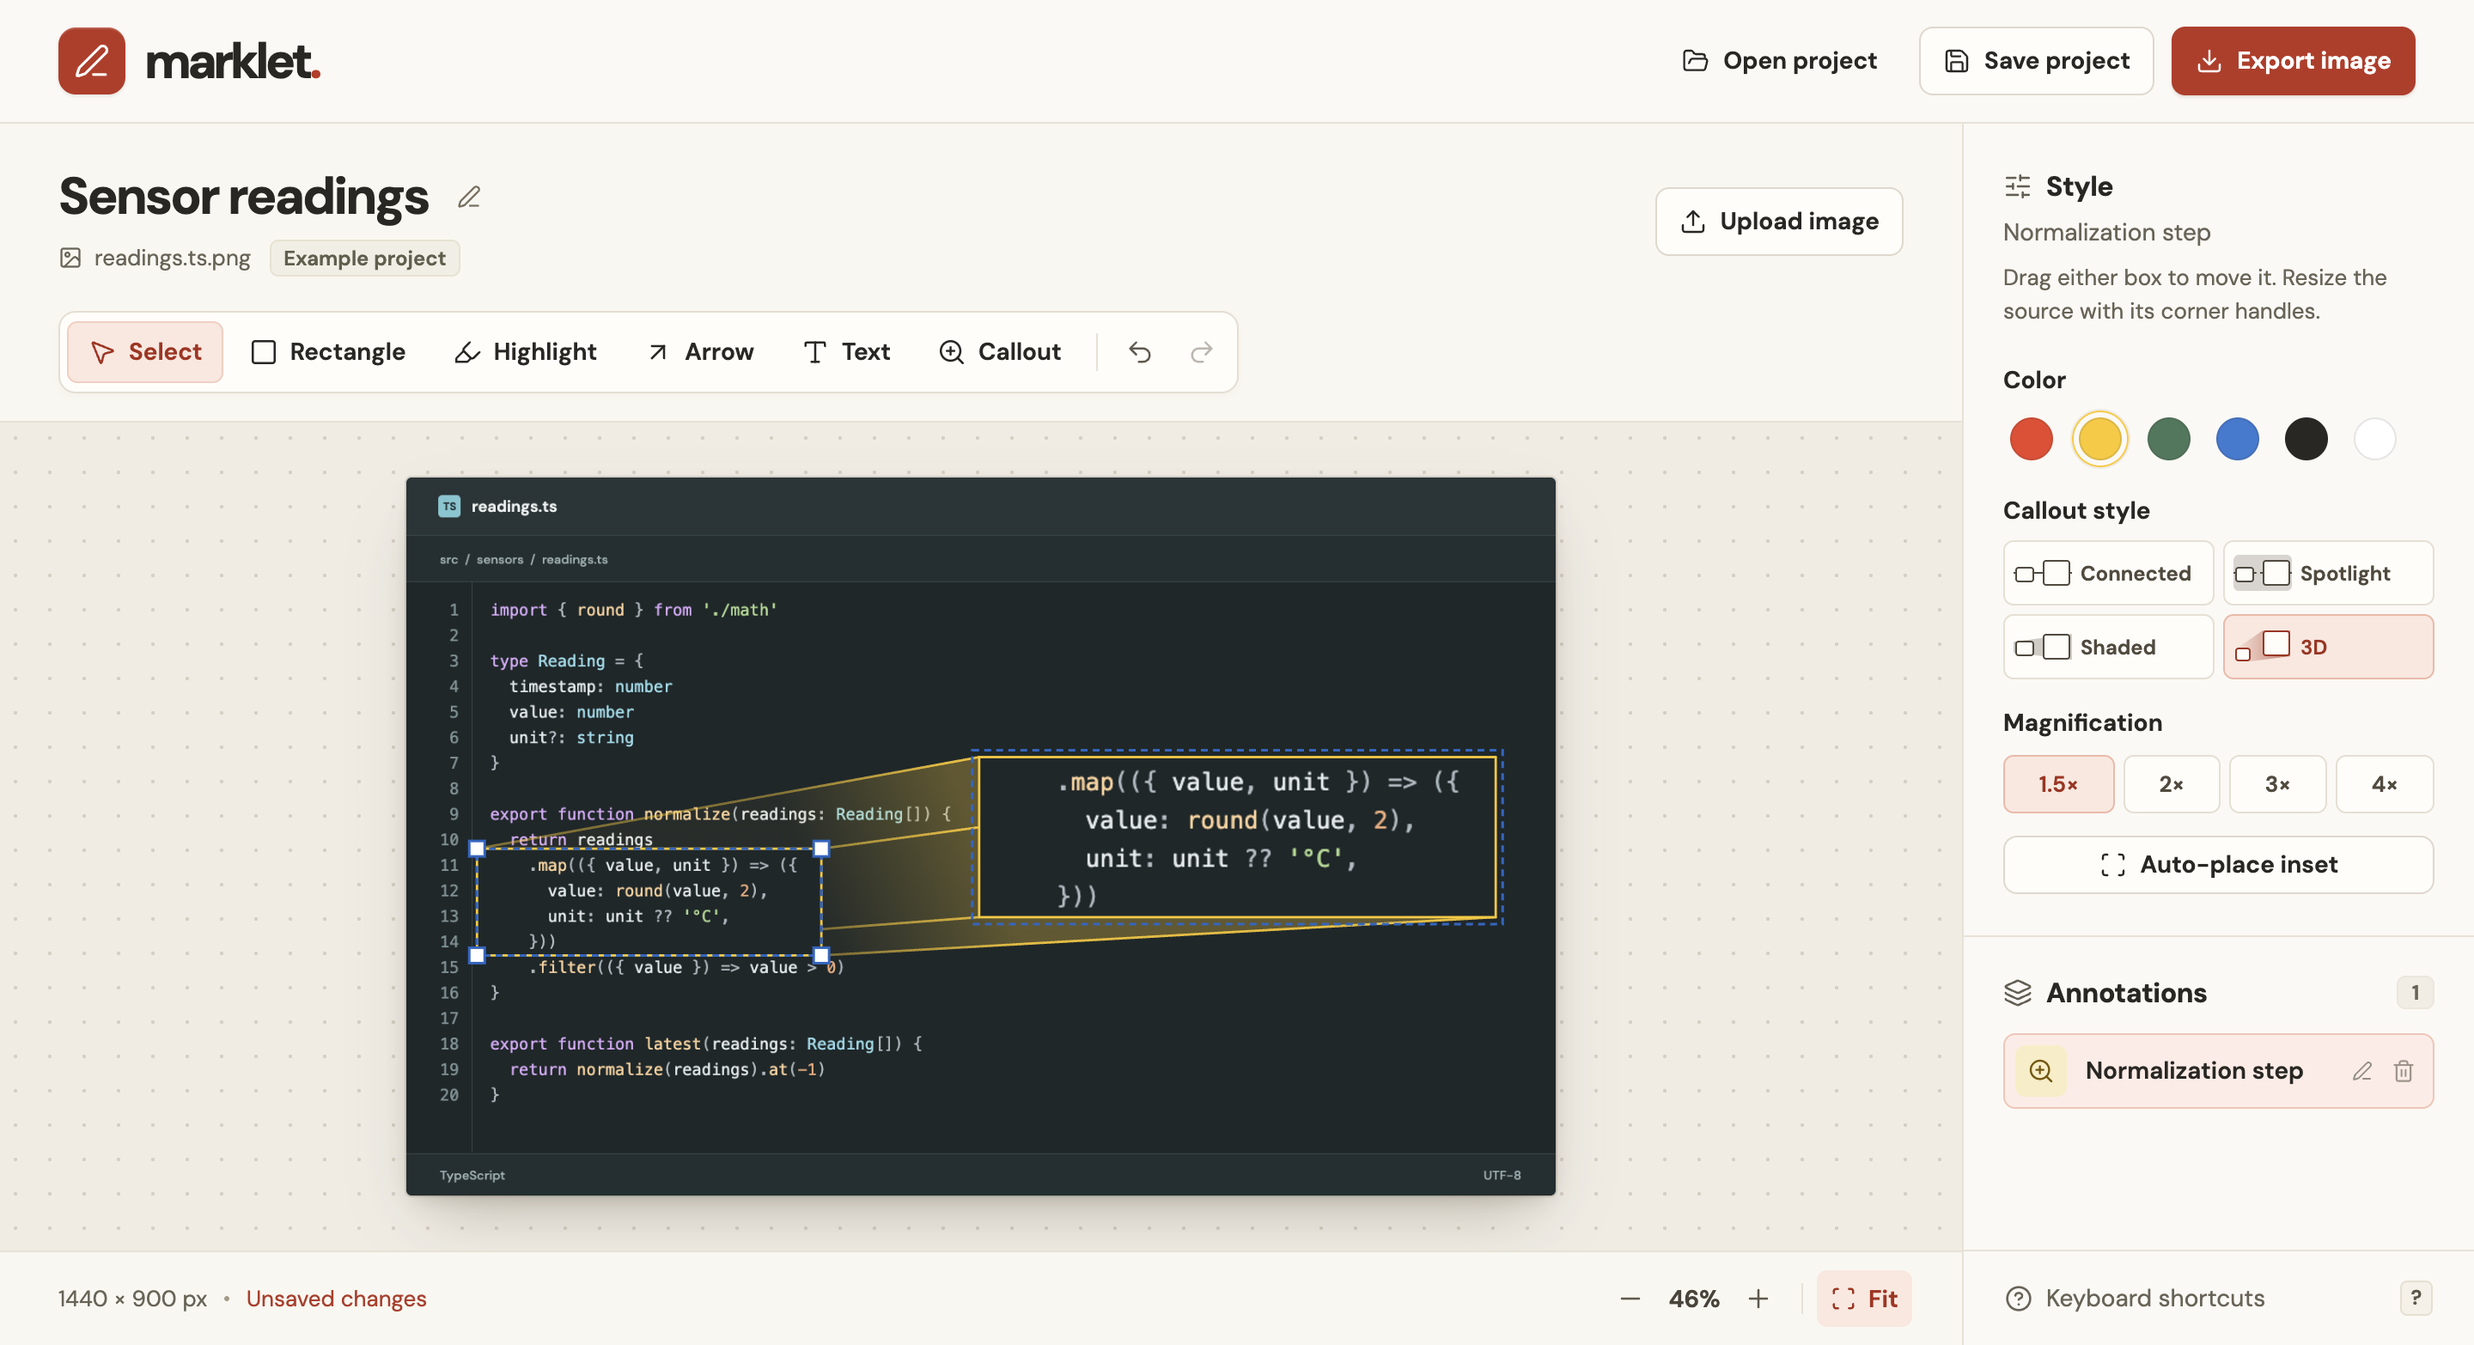
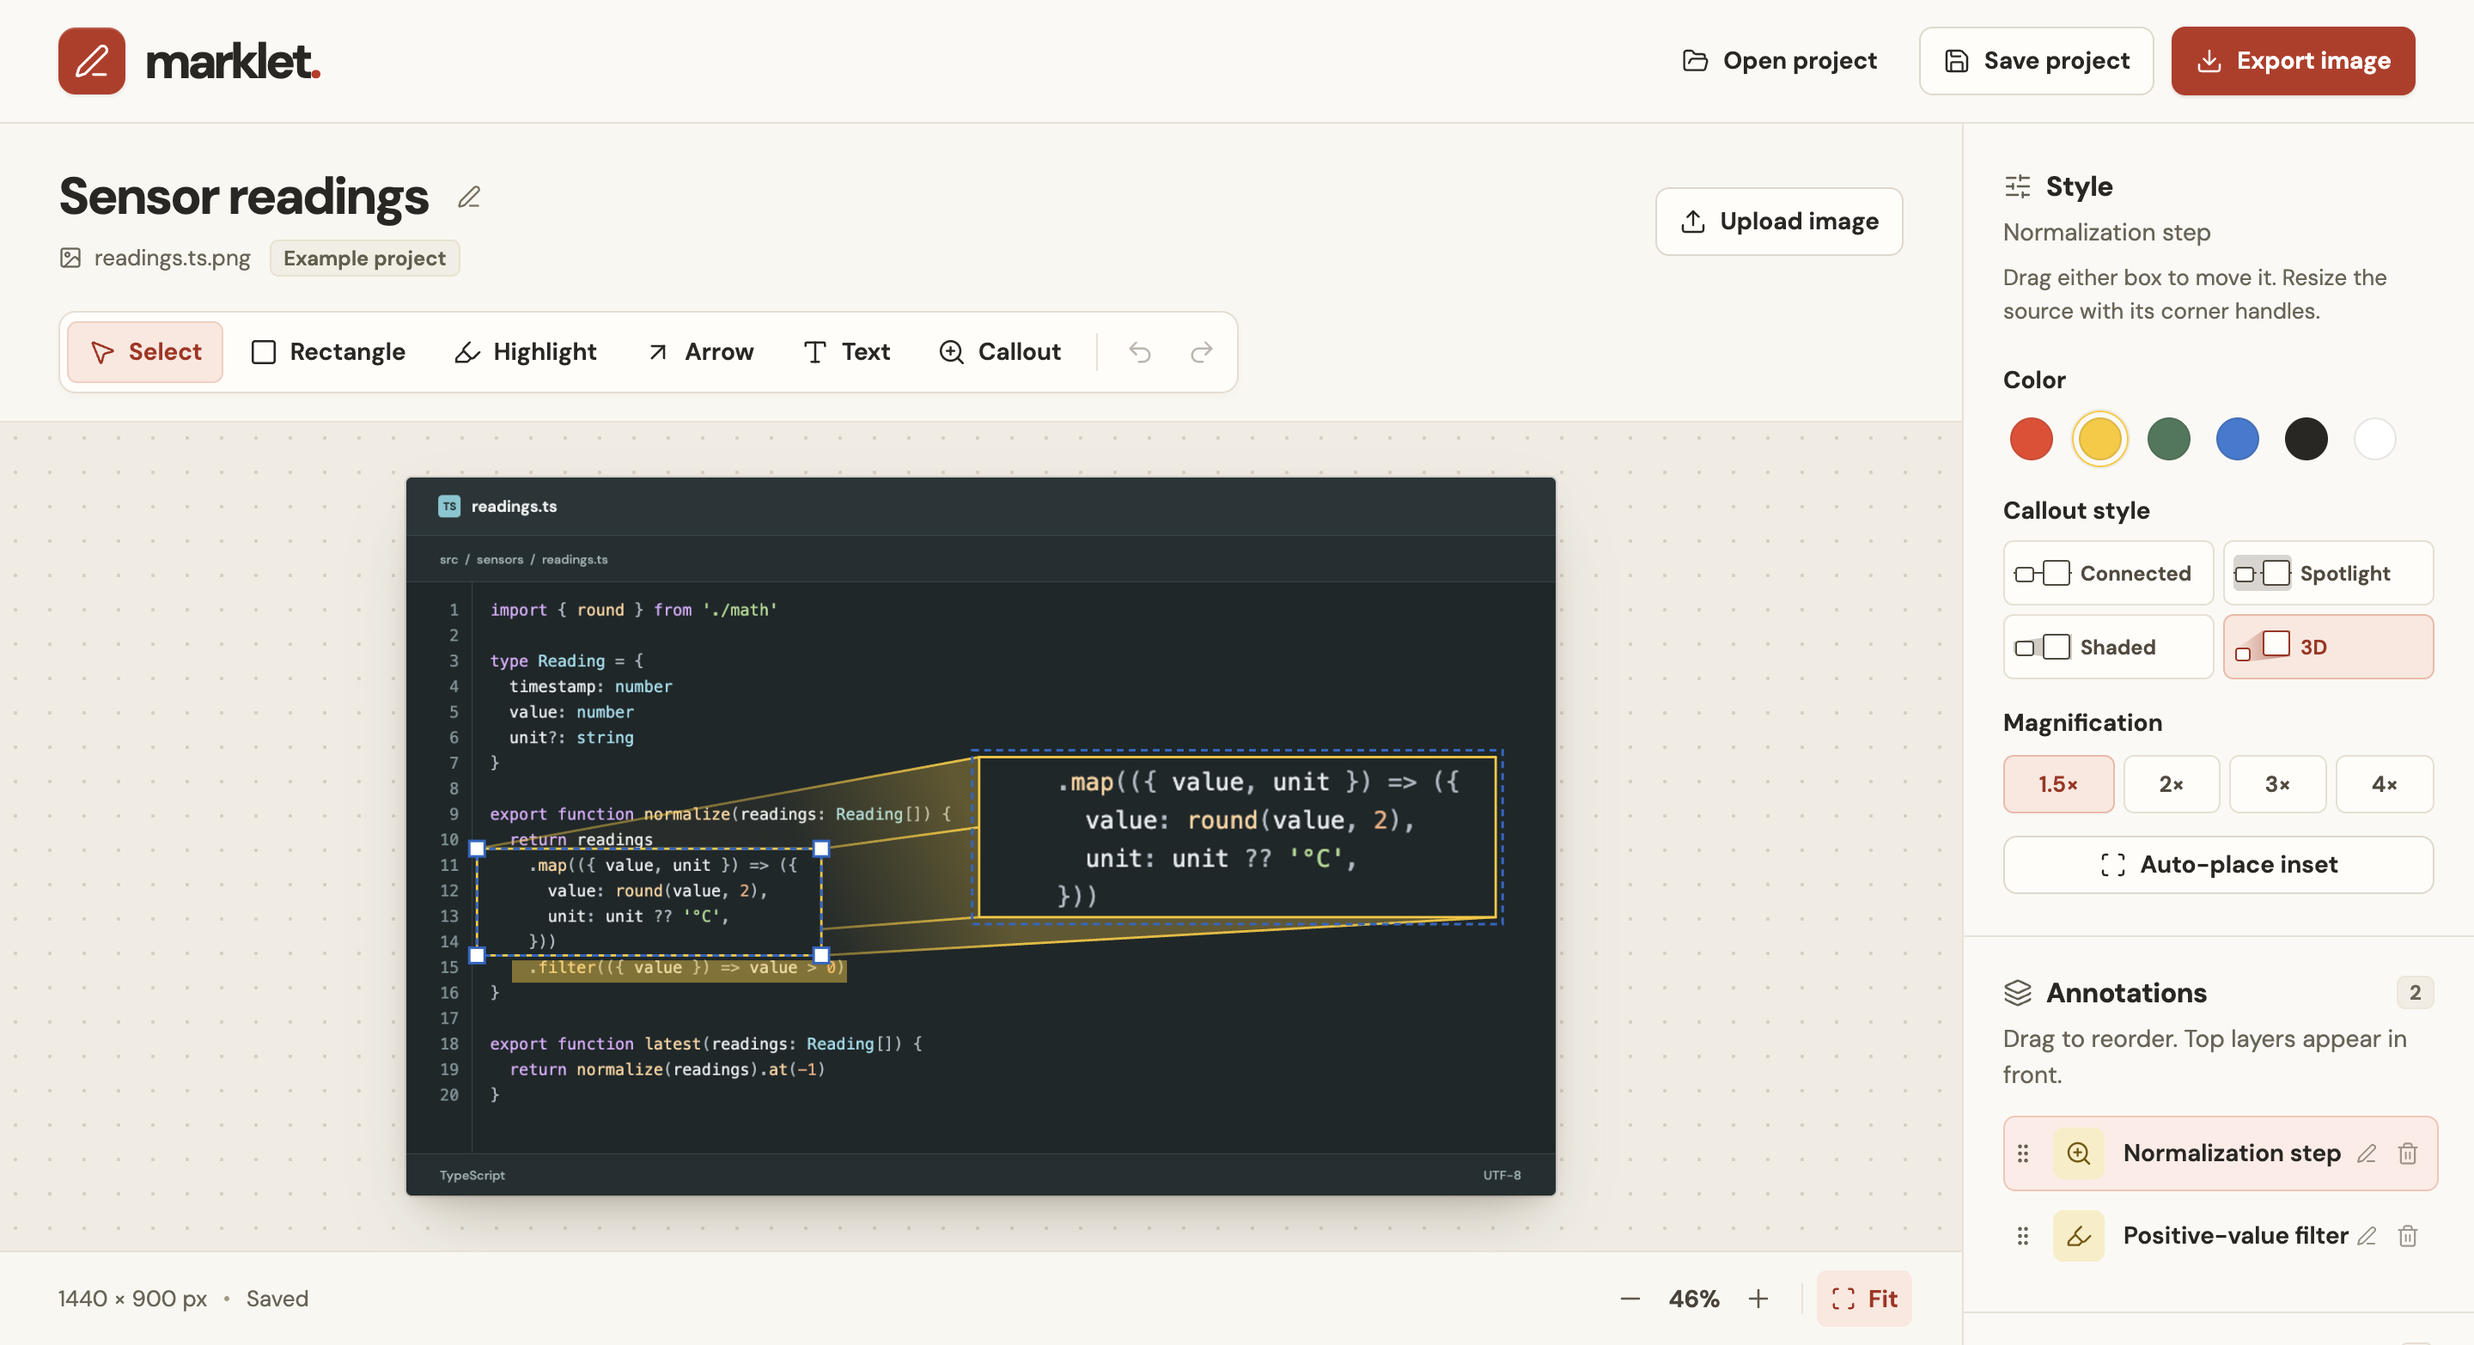
Reorder annotation layers with a front-to-back stack

diff --git a/src/layer-drag.ts b/src/layer-drag.ts
@@ -1,0 +1,125 @@
+type Drag = {
+  row: HTMLElement
+  grip: HTMLButtonElement
+  id: string
+  pointerId: number
+  startX: number
+  startY: number
+  x: number
+  y: number
+  active: boolean
+}
+
+export function installLayerDrag(list: HTMLUListElement, reorder: (id: string, index: number) => void) {
+  const sidebar = list.closest<HTMLElement>('.sidebar')!
+  let drag: Drag | undefined
+  let indicator: HTMLElement | undefined
+  let frame = 0
+
+  function destination(current: Drag) {
+    const bounds = list.getBoundingClientRect()
+    const panel = sidebar.getBoundingClientRect()
+    if (current.x < bounds.left - 8 || current.x > bounds.right + 8
+      || current.y < Math.max(bounds.top - 12, panel.top, 0)
+      || current.y > Math.min(bounds.bottom + 12, panel.bottom, window.innerHeight)) return
+
+    const rows = [...list.children] as HTMLElement[]
+    const from = rows.indexOf(current.row)
+    if (from < 0) return
+    const others = rows.filter(row => row !== current.row)
+    const before = others.findIndex(row => {
+      const rect = row.getBoundingClientRect()
+      return current.y < rect.top + rect.height / 2
+    })
+    const index = before === -1 ? others.length : before
+    if (index === from) return
+    const target = others[index] ?? others.at(-1)
+    if (target) return { index, target, edge: before === -1 ? 'after' : 'before' }
+  }
+
+  function showDestination(current: Drag) {
+    if (indicator) delete indicator.dataset.dropEdge
+    const drop = destination(current)
+    indicator = drop?.target
+    if (indicator && drop) indicator.dataset.dropEdge = drop.edge
+  }
+
+  function autoScroll() {
+    frame = 0
+    if (!drag?.active) return
+    const scroller = sidebar.scrollHeight > sidebar.clientHeight ? sidebar : document.scrollingElement
+    if (!scroller) return
+    const listBounds = list.getBoundingClientRect()
+    if (drag.x < listBounds.left - 8 || drag.x > listBounds.right + 8) return
+    const viewport = scroller === sidebar ? sidebar.getBoundingClientRect() : { top: 0, bottom: window.innerHeight }
+    if (drag.y < viewport.top || drag.y > viewport.bottom) return
+
+    const margin = 32
+    const distance = drag.y < viewport.top + margin ? drag.y - viewport.top - margin
+      : drag.y > viewport.bottom - margin ? drag.y - viewport.bottom + margin : 0
+    if (!distance) return
+    const previous = scroller.scrollTop
+    scroller.scrollTop += Math.sign(distance) * Math.ceil(Math.abs(distance) / 3)
+    if (scroller.scrollTop === previous) return
+    showDestination(drag)
+    frame = window.requestAnimationFrame(autoScroll)
+  }
+
+  function cancel() {
+    if (!drag) return
+    const { row, grip, pointerId } = drag
+    drag = undefined
+    row.classList.remove('is-dragging')
+    if (indicator) delete indicator.dataset.dropEdge
+    indicator = undefined
+    window.cancelAnimationFrame(frame)
+    frame = 0
+    if (grip.hasPointerCapture(pointerId)) grip.releasePointerCapture(pointerId)
+  }
+
+  list.addEventListener('pointerdown', event => {
+    if (drag || !event.isPrimary || event.button !== 0 || !(event.target instanceof Element)) return
+    const grip = event.target.closest<HTMLButtonElement>('.layer-grip')
+    const row = grip?.closest<HTMLElement>('[data-layer-id]')
+    const id = row?.dataset.layerId
+    if (!grip || grip.disabled || !row || !id) return
+    event.preventDefault()
+    grip.focus({ preventScroll: true })
+    drag = {
+      row, grip, id, pointerId: event.pointerId,
+      startX: event.clientX, startY: event.clientY, x: event.clientX, y: event.clientY, active: false,
+    }
+    grip.setPointerCapture(event.pointerId)
+  })
+
+  list.addEventListener('pointermove', event => {
+    if (!drag || event.pointerId !== drag.pointerId) return
+    if (!drag.active && Math.hypot(event.clientX - drag.startX, event.clientY - drag.startY) < 4) return
+    drag.active = true
+    drag.row.classList.add('is-dragging')
+    drag.x = event.clientX
+    drag.y = event.clientY
+    showDestination(drag)
+    if (!frame) frame = window.requestAnimationFrame(autoScroll)
+  })
+
+  list.addEventListener('pointerup', event => {
+    if (!drag || event.pointerId !== drag.pointerId) return
+    const { id, active } = drag
+    const drop = active ? destination({ ...drag, x: event.clientX, y: event.clientY }) : undefined
+    cancel()
+    if (drop) reorder(id, drop.index)
+  })
+
+  const release = (event: PointerEvent) => { if (event.pointerId === drag?.pointerId) cancel() }
+  list.addEventListener('pointercancel', release)
+  list.addEventListener('lostpointercapture', release)
+  list.addEventListener('keydown', event => {
+    if (!drag || event.key !== 'Escape') return
+    event.preventDefault()
+    event.stopPropagation()
+    cancel()
+  })
+  window.addEventListener('blur', cancel)
+  return cancel
+}

diff --git a/src/main.ts b/src/main.ts
@@ -4,6 +4,7 @@ import { contains, defaultStyles, drawMark, drawSelection, hitsMark, moveMark, r
 import { calloutSource, clampPoint, compositionSize, defaultCallout, drawComposition, layoutCallout, magnifications, moveCalloutSource, validCrop, type CalloutOptions } from './callouts'
 import { createDemo } from './demo'
 import { icon, toolIcons } from './icons'
+import { installLayerDrag } from './layer-drag'
 import { asDataUrl, download, filenameFor, loadImage, projectBlob, readProject, toImageBlob, type Project } from './project'
 import { editorMarkup, shortcutByTool } from './view'
 
@@ -229,6 +230,19 @@ function createLayerRow(mark: Mark) {
   const id = mark.id
   const row = document.createElement('li')
   row.className = 'layer-row'
+  row.dataset.layerId = id
+  const grip = document.createElement('button')
+  grip.type = 'button'
+  grip.className = 'icon-button layer-grip'
+  grip.title = 'Drag to reorder. Use Up or Down when focused.'
+  grip.setAttribute('aria-keyshortcuts', 'ArrowUp ArrowDown')
+  grip.innerHTML = icon('grip')
+  grip.onkeydown = event => {
+    if (event.key !== 'ArrowUp' && event.key !== 'ArrowDown') return
+    const index = [...layerList.children].indexOf(row)
+    event.preventDefault()
+    reorderLayer(id, index + (event.key === 'ArrowUp' ? -1 : 1))
+  }
   const selectButton = document.createElement('button')
   selectButton.type = 'button'
   selectButton.className = 'layer-select'
@@ -283,16 +297,18 @@ function createLayerRow(mark: Mark) {
   remove.title = 'Delete annotation'
   remove.innerHTML = icon('trash')
   remove.onclick = () => removeMark(id, true)
-  row.append(selectButton, name, remove)
-  return { row, selectButton, renameButton, title, remove }
+  row.append(grip, selectButton, name, remove)
+  return { row, grip, selectButton, renameButton, title, remove }
 }
 
 const layerRows = new Map<string, ReturnType<typeof createLayerRow>>()
 
 function renderLayers() {
-  const marks = project?.marks ?? []
+  // The renderer and project format store the backmost layer first.
+  const marks = project?.marks.toReversed() ?? []
   element('layer-count').textContent = String(marks.length)
   element('layers-empty').hidden = marks.length > 0
+  element('layers-reorder-hint').hidden = marks.length < 2
   const ids = new Set(marks.map(mark => mark.id))
   for (const [id, layer] of layerRows) {
     if (ids.has(id)) continue
@@ -305,6 +321,8 @@ function renderLayers() {
     const selected = mark.id === selectedId
     const label = markLabel(mark)
     layer.row.classList.toggle('is-selected', selected)
+    layer.grip.disabled = marks.length < 2
+    layer.grip.setAttribute('aria-label', `Reorder ${label}`)
     layer.selectButton.setAttribute('aria-pressed', String(selected))
     layer.selectButton.setAttribute('aria-label', `Select ${label}`)
     layer.selectButton.title = `Select ${label}`
@@ -371,7 +389,7 @@ function useTool(tool: Tool) {
 
 function removeMark(id: string, focusLayer = false) {
   if (!project) return
-  const index = project.marks.findIndex(mark => mark.id === id)
+  const index = project.marks.length - 1 - project.marks.findIndex(mark => mark.id === id)
   if (selectedId === id) selectedId = undefined
   commit({ ...project, marks: project.marks.filter(mark => mark.id !== id) })
   if (focusLayer) {
@@ -380,6 +398,26 @@ function removeMark(id: string, focusLayer = false) {
     target.focus()
   }
 }
+
+function reorderLayer(id: string, topIndex: number) {
+  if (!project) return
+  const from = project.marks.findIndex(mark => mark.id === id)
+  const to = project.marks.length - 1 - topIndex
+  if (from < 0 || to < 0 || to >= project.marks.length || from === to) return
+  const marks = [...project.marks]
+  const [mark] = marks.splice(from, 1)
+  marks.splice(to, 0, mark)
+  const grip = layerRows.get(id)?.grip
+  const restoreFocus = document.activeElement === grip
+  commit({ ...project, marks })
+  if (restoreFocus && grip) {
+    grip.focus({ preventScroll: true })
+    grip.scrollIntoView({ block: 'nearest', inline: 'nearest' })
+  }
+  notify(`${markLabel(mark)} moved to layer ${topIndex + 1} of ${marks.length}`)
+}
+
+const cancelLayerDrag = installLayerDrag(layerList, reorderLayer)
 
 function changeStyle(properties: Partial<Style>) {
   const current = activeStyle()
@@ -421,6 +459,7 @@ function rename() {
 }
 
 function installProject(next: Project, nextImage: HTMLImageElement) {
+  cancelLayerDrag()
   layerList.replaceChildren()
   layerRows.clear()
   project = next

diff --git a/src/style.css b/src/style.css
@@ -211,10 +211,17 @@ h1, h2, h3, p { margin: 0; }
 
 .layers-panel { padding: 22px 23px; flex: 1; }
 .layer-count { margin-left: auto; min-width: 22px; border: 1px solid #ece6dc; padding: 1px 5px; border-radius: 5px; background: #f1ede5; text-align: center; color: var(--muted); font-size: .75rem; font-weight: 660; }
-.layers-list { display: grid; gap: 4px; list-style: none; margin: 13px 0 0; padding: 0; }
-.layer-row { display: flex; align-items: center; gap: 1px; border: 1px solid transparent; border-radius: 7px; }
+.layers-list { display: grid; grid-template-columns: minmax(0, 1fr); gap: 4px; list-style: none; margin: 13px 0 0; padding: 0; }
+.layer-row { position: relative; display: flex; align-items: center; gap: 1px; border: 1px solid transparent; border-radius: 7px; }
 .layer-row:hover { background: #f3eee6; }
 .layer-row.is-selected { border-color: #edc6b8; background: #fbede7; }
+.layer-row.is-dragging { opacity: .48; }
+.layer-row[data-drop-edge]::after { content: ""; position: absolute; inset-inline: 3px; height: 2px; background: #3f6ba3; border-radius: 1px; pointer-events: none; }
+.layer-row[data-drop-edge="before"]::after { top: -4px; }
+.layer-row[data-drop-edge="after"]::after { bottom: -4px; }
+.layer-grip { width: 21px; height: 36px; cursor: grab; touch-action: none; user-select: none; }
+.layer-grip svg { width: 14px; height: 14px; }
+.layer-row.is-dragging .layer-grip { cursor: grabbing; }
 .layer-select { flex: 0 0 auto; display: flex; align-items: center; background: transparent; border: 0; border-radius: 6px; padding: 6px; min-height: 42px; }
 .layer-select:hover .layer-icon { box-shadow: 0 0 0 1px currentColor; }
 .layer-name { flex: 1; min-width: 0; }

diff --git a/src/icons.ts b/src/icons.ts
@@ -5,6 +5,7 @@ import circleHelp from 'lucide-static/icons/circle-help.svg?raw'
 import download from 'lucide-static/icons/download.svg?raw'
 import fileImage from 'lucide-static/icons/image.svg?raw'
 import folder from 'lucide-static/icons/folder-open.svg?raw'
+import grip from 'lucide-static/icons/grip-vertical.svg?raw'
 import highlighter from 'lucide-static/icons/highlighter.svg?raw'
 import layers from 'lucide-static/icons/layers.svg?raw'
 import mouse from 'lucide-static/icons/mouse-pointer-2.svg?raw'
@@ -23,7 +24,7 @@ import upload from 'lucide-static/icons/upload.svg?raw'
 import x from 'lucide-static/icons/x.svg?raw'
 import zoom from 'lucide-static/icons/zoom-in.svg?raw'
 
-const icons = { arrow, check, chevron, circleHelp, download, fileImage, folder, highlighter, layers, mouse, minus, pen, plus, redo, save, scan, sliders, square, trash, type, undo, upload, x, zoom }
+const icons = { arrow, check, chevron, circleHelp, download, fileImage, folder, grip, highlighter, layers, mouse, minus, pen, plus, redo, save, scan, sliders, square, trash, type, undo, upload, x, zoom }
 
 export function icon(name: keyof typeof icons) {
   return icons[name].replace('<svg', '<svg aria-hidden="true" focusable="false"')

diff --git a/src/view.ts b/src/view.ts
@@ -109,6 +109,7 @@ export const editorMarkup = `
       </section>
       <section class="layers-panel" aria-labelledby="layers-title">
         <div class="section-title">${icon('layers')}<h2 id="layers-title">Annotations</h2><span class="layer-count" id="layer-count">0</span></div>
+        <p class="panel-context" id="layers-reorder-hint" hidden>Drag to reorder. Top layers appear in front.</p>
         <ul class="layers-list" id="layers"></ul>
         <p class="panel-context" id="layers-empty">Draw on the image to add an annotation.</p>
       </section>
@@ -145,6 +146,7 @@ export const editorMarkup = `
     <div class="dialog-heading"><h2 id="shortcuts-title">Keyboard shortcuts</h2><button class="icon-button" type="button" data-close aria-label="Close">${icon('x')}</button></div>
     <div class="shortcuts-list">
       ${shortcuts}
+      <div><span>Reorder with layer handle focused</span><kbd>↑ / ↓</kbd></div>
       <div><span>Undo</span><kbd>Ctrl / ⌘ + Z</kbd></div>
       <div><span>Redo</span><kbd>Ctrl / ⌘ + Shift + Z</kbd></div>
       <div><span>Delete annotation</span><kbd>Delete</kbd></div>

diff --git a/README.md b/README.md
@@ -15,7 +15,7 @@ See the [latest release](https://github.com/williamcotton/marklet/releases/lates
 
 ![Marklet showing a 3D callout over a TypeScript screenshot](docs/screenshots/3d-callout.png)
 
-Add outlined boxes, highlights, arrows, and text to explain the rest of the screenshot. Select an annotation to edit it or click its name in the sidebar to rename it.
+Add outlined boxes, highlights, arrows, and text to explain the rest of the screenshot. Select an annotation to edit it or click its name in the sidebar to rename it. Drag a layer by its handle to move it forward or backward in the stack.
 
 ![Marklet showing a code review with a box, yellow highlight, arrow, and text note](docs/screenshots/review-markup.png)
 
